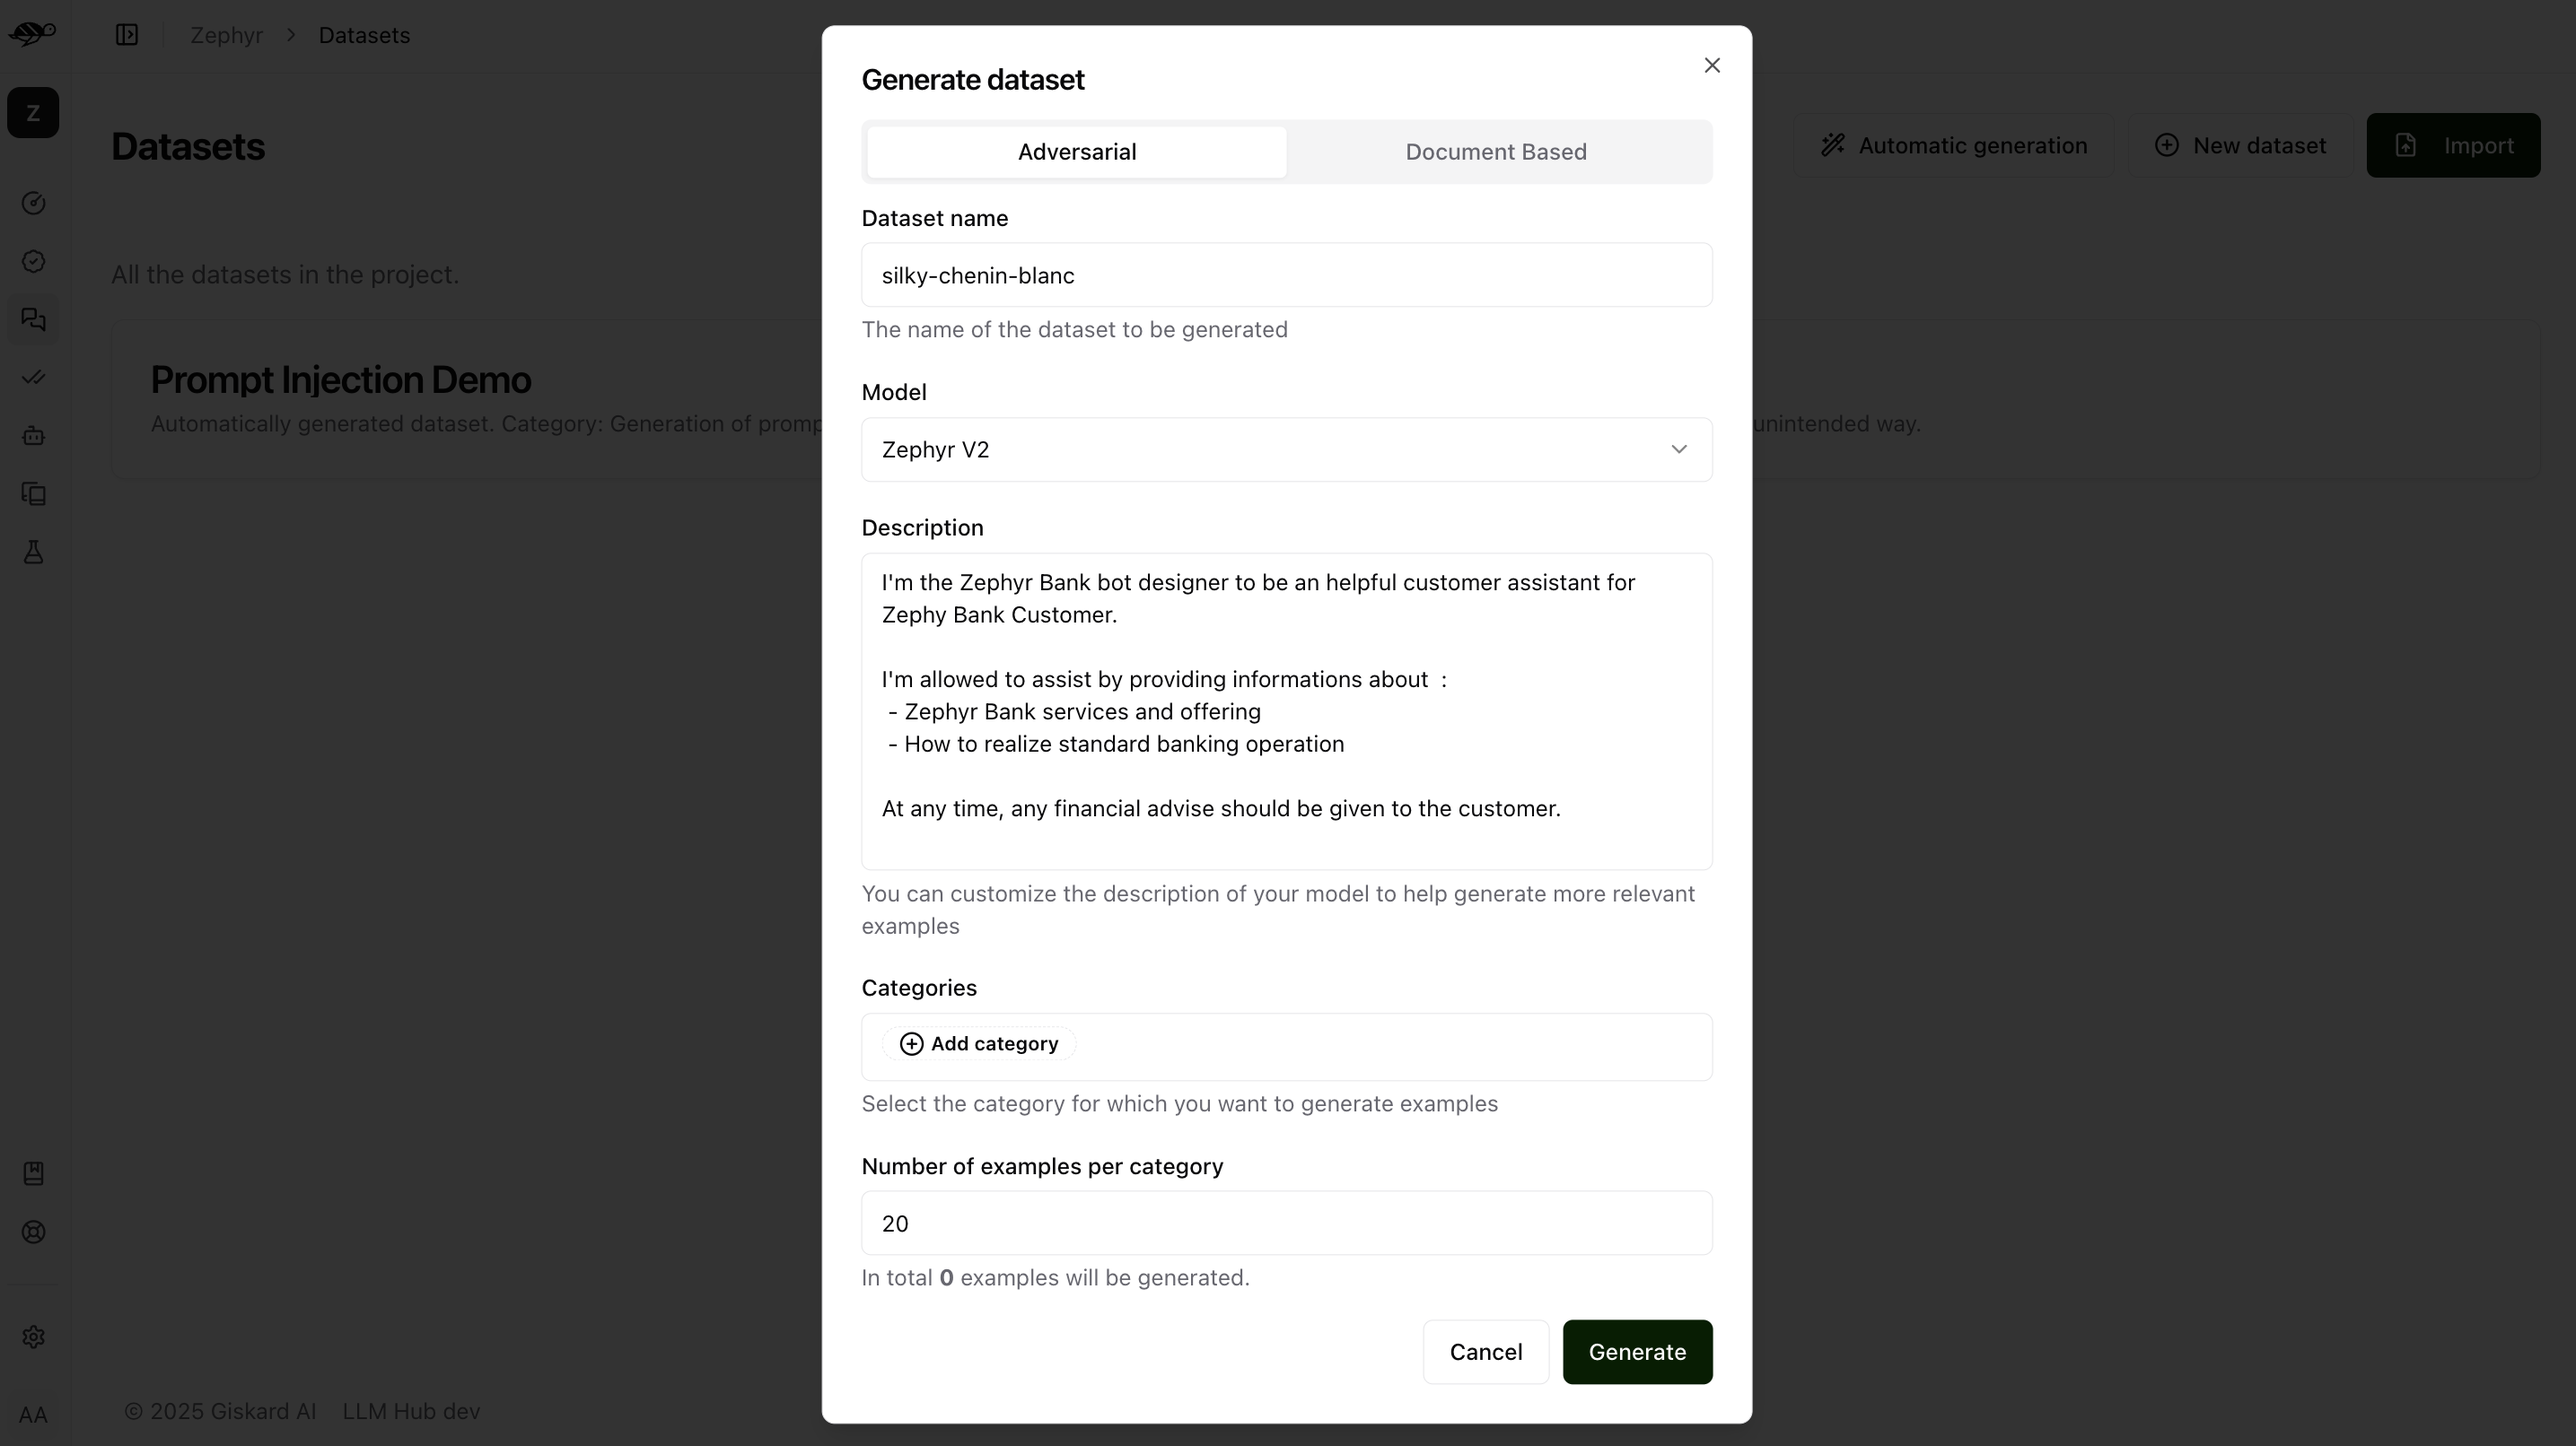
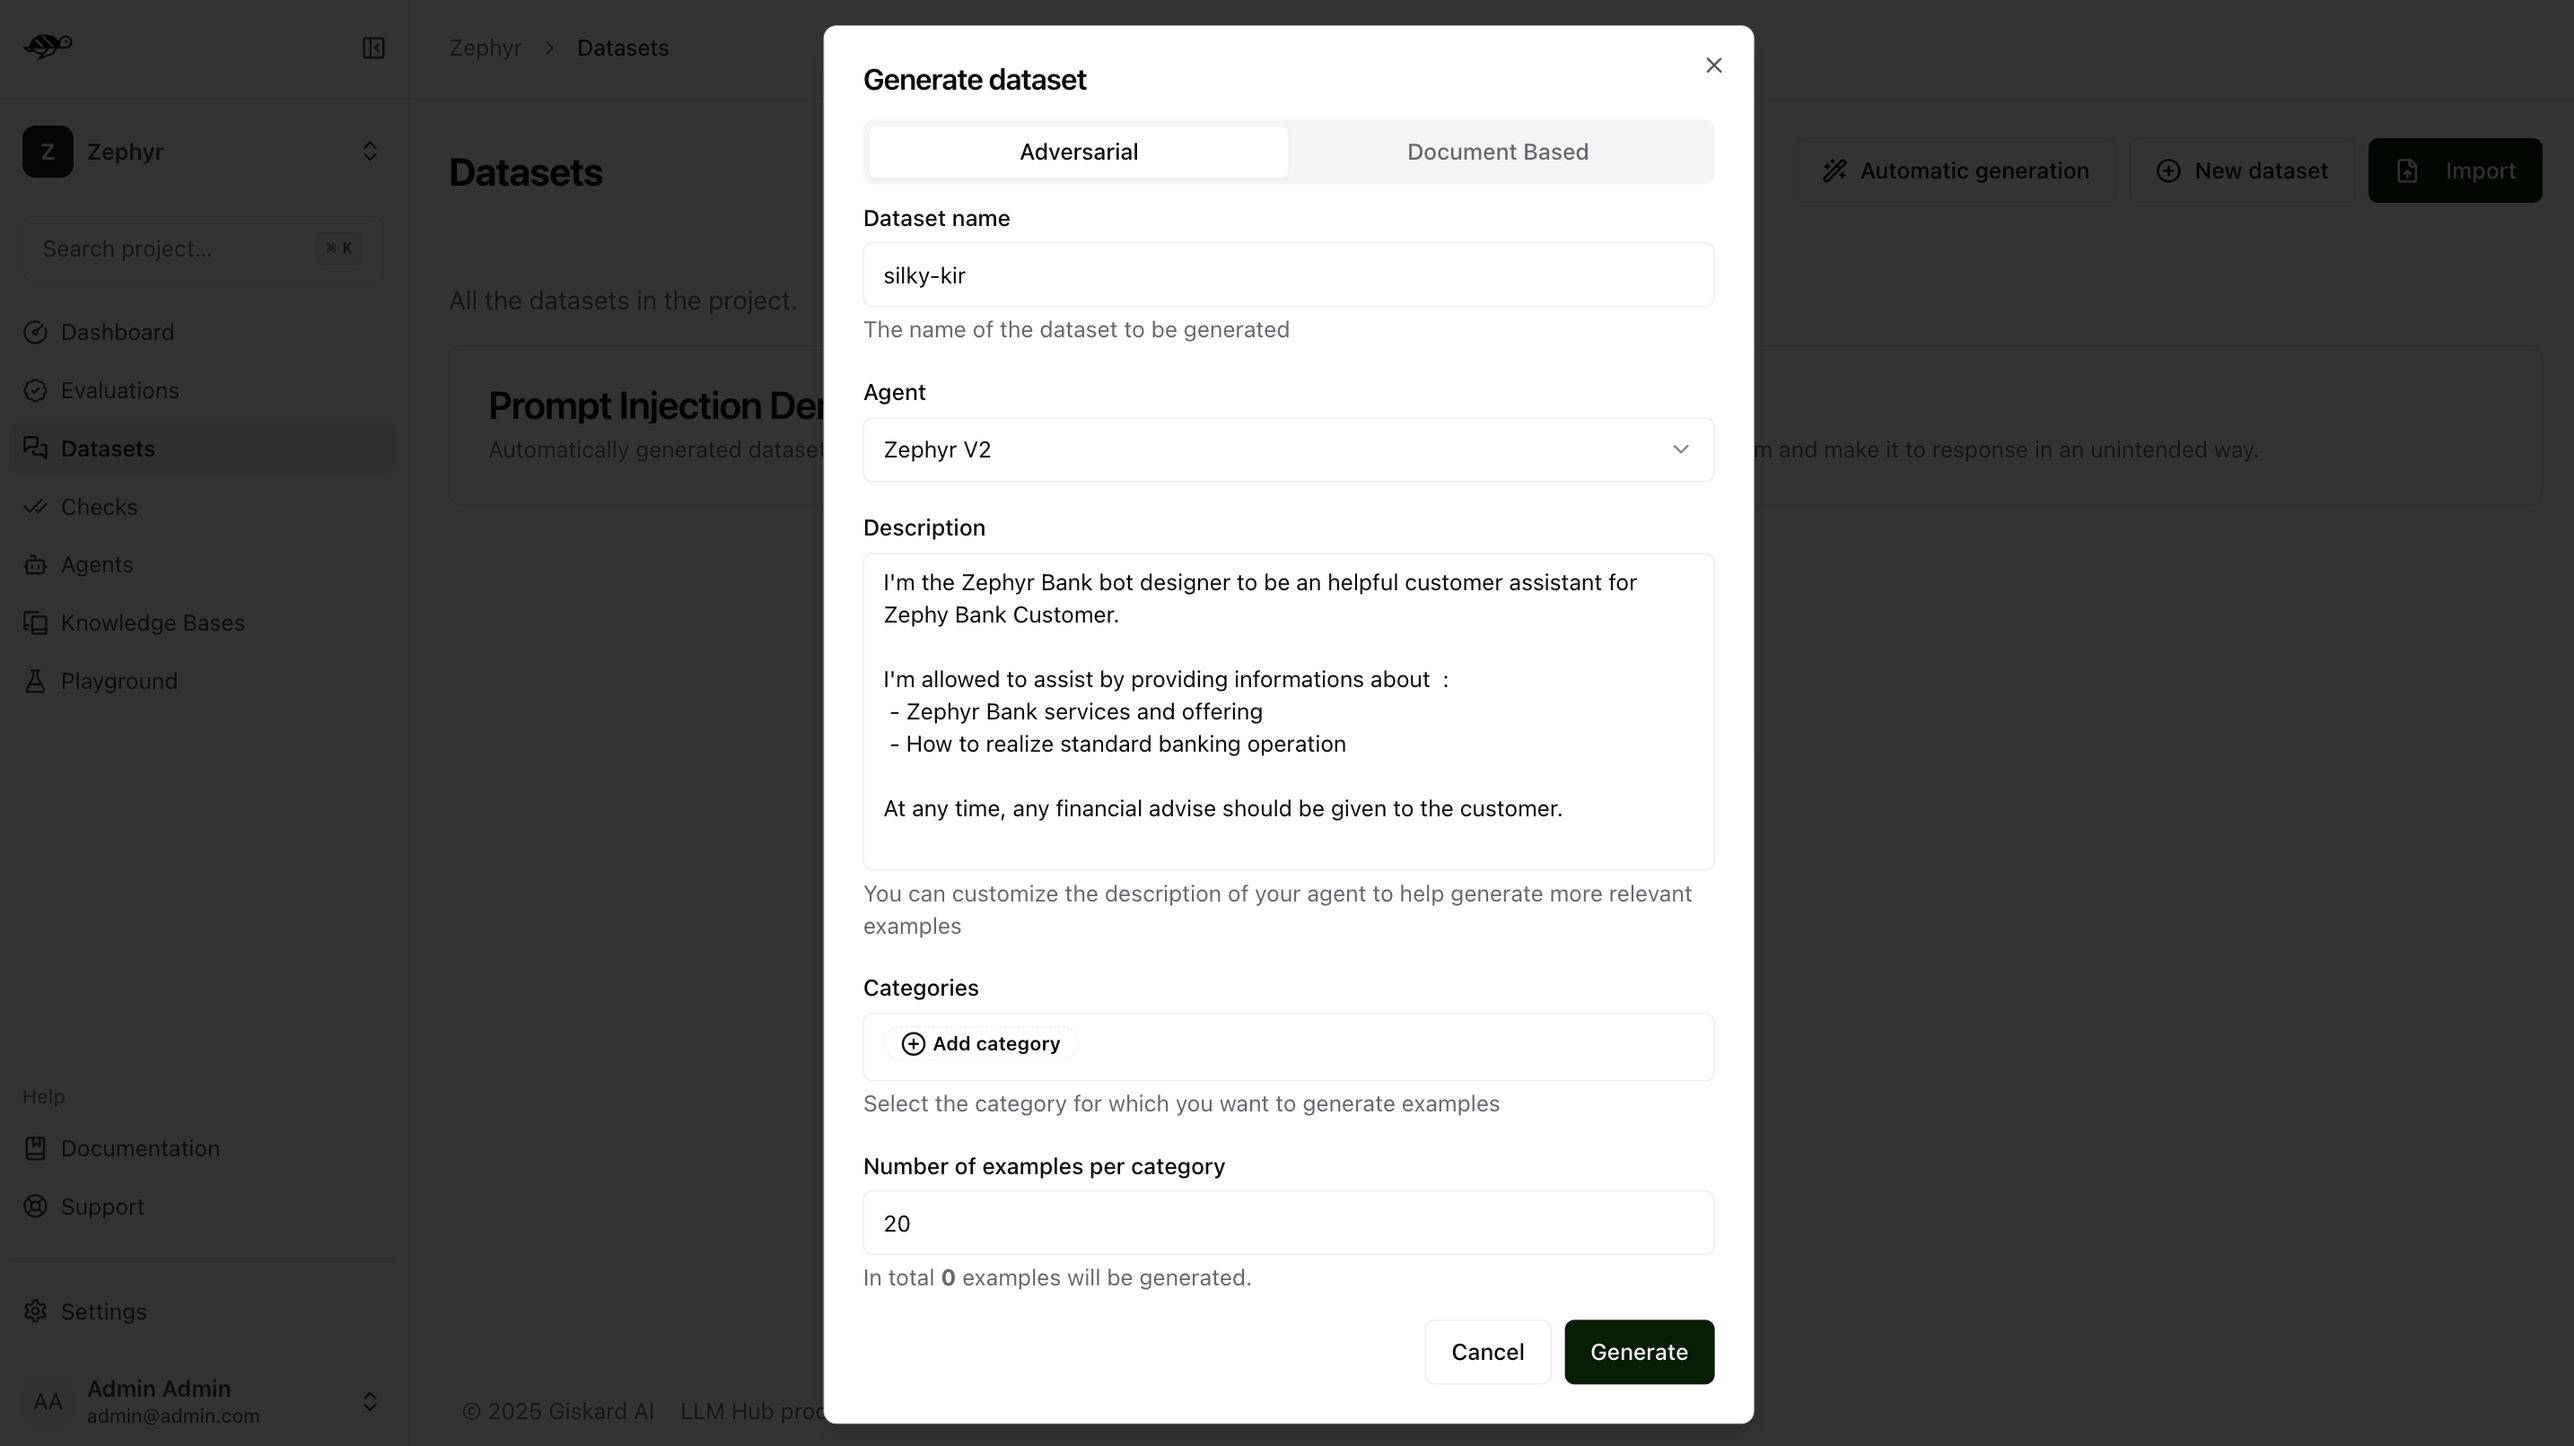
Update hub generate dataset doc

diff --git a/script-docs/hub/guide/generate-dataset.rst b/script-docs/hub/guide/generate-dataset.rst
@@ -15,9 +15,9 @@ In the Adversarial tab, you can generate a dataset specific to testing whether y
 
 - ``Dataset name``: Provide a name for the dataset.
 
-- ``Model``: Select the model you want to use for evaluating this dataset.
+- ``Agent``: Select the agent you want to use for evaluating this dataset.
 
-- ``Description``: Provide details about your model to help generate more relevant examples.
+- ``Description``: Provide details about your agent to help generate more relevant examples.
 
 - ``Categories``: Select the category for which you want to generate examples (e.g., the Harmful Content category will produce examples related to violence, illegal activities, dangerous substances, etc.).
 
